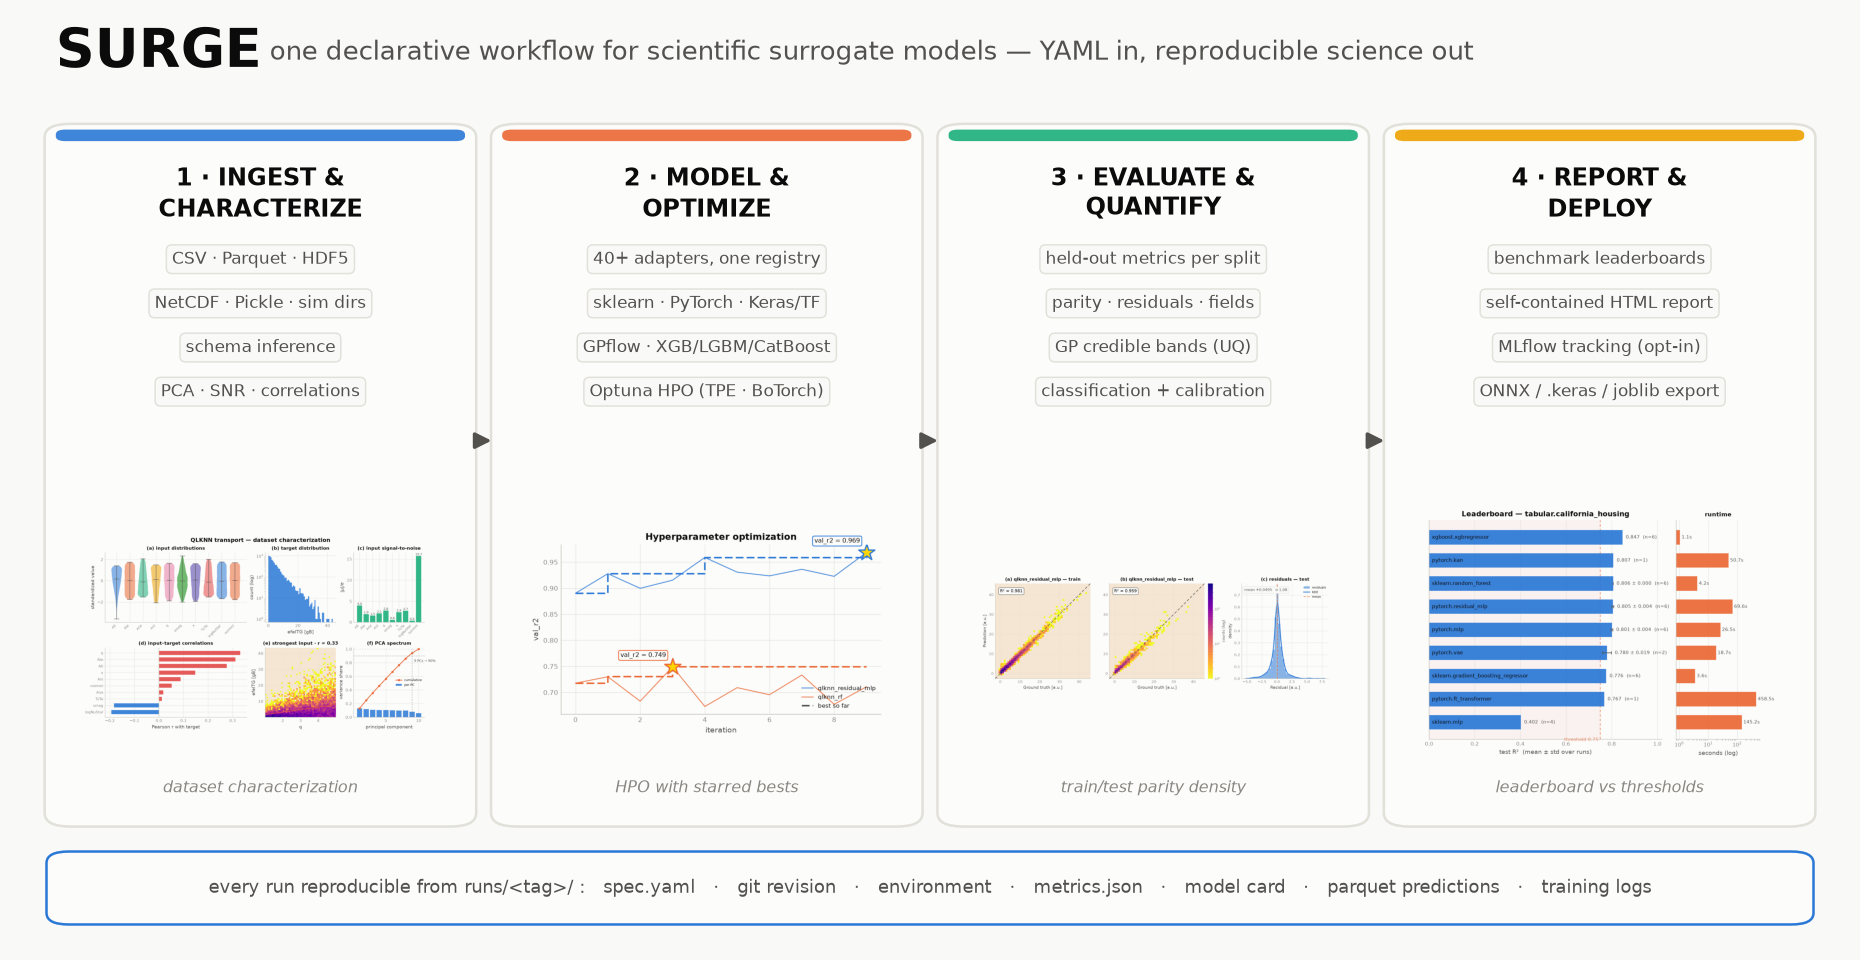
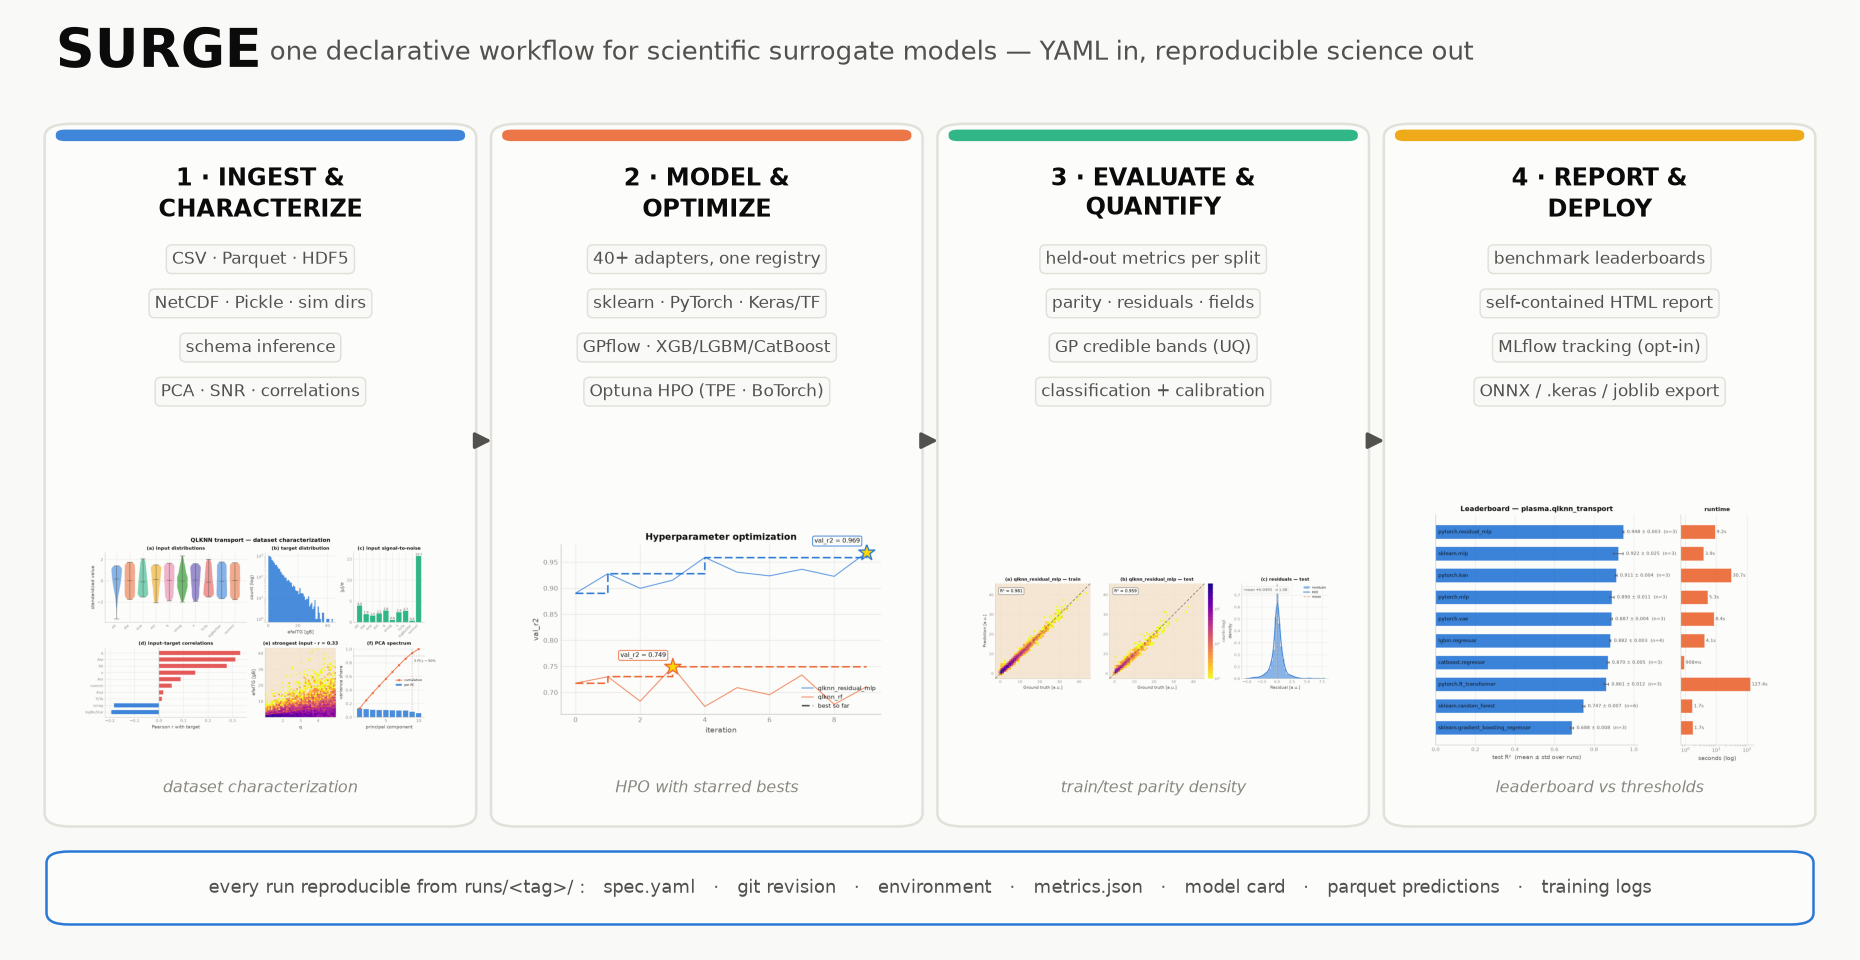
docs(readme): FNO-first results, single-plot 3-across rows, QLKNN leaderboard highlight
- results grid rebuilt around single-plot panels in 3-across rows so
  every image keeps a proper aspect ratio on GitHub: FNO-2D Poisson
  triptych leads (truth/prediction/error as separate panels), then
  parity train/test/residuals, then HPO/UQ/monitoring; ensemble stays
  full-width; the mixed-backend trio becomes three single parities
- gallery gains a singles mode (parity_singles, trio_singles,
  field2d_singles) emitting one plot per file

Changed region(s): [[0.7484, 0.5312, 0.9667, 0.8125]]

diff --git a/examples/viz_theme_gallery.py b/examples/viz_theme_gallery.py
@@ -56,6 +56,16 @@ from surge.viz.theme import (
 )
 
 
+def _benchmark_threshold(key: str):
+    """Published pass threshold from the benchmark registry (or None)."""
+    try:
+        from surge.benchmarks.leaderboard import _THRESHOLDS
+        metric, value = _THRESHOLDS[key]
+        return value if metric.endswith("r2") or "accuracy" in metric else None
+    except Exception:  # noqa: BLE001 - decorative line only
+        return None
+
+
 def _is_loss_like(metric: str) -> bool:
     return any(tag in metric.lower()
                for tag in ("loss", "mse", "rmse", "nrmse", "mae", "error"))
@@ -79,7 +89,8 @@ def _load_split(run_dir: Path, model_key: str, split: str):
     return y_true, y_pred
 
 
-def parity_figure(run_dir: Path, mode: str, units: str = "a.u."):
+def parity_figure(run_dir: Path, mode: str, units: str = "a.u.",
+                  singles: bool = False):
     """Publication parity: 2D histogram density, reversed plasma colormap,
     log-scaled counts — the SURGE signature style (Sánchez-Villar et al.,
     Nucl. Fusion): (a) training / (b) test panels, dashed identity, R² box,
@@ -110,6 +121,64 @@ def parity_figure(run_dir: Path, mode: str, units: str = "a.u."):
     peak = max(
         np.histogram2d(t, q, bins=[bins, bins])[0].max()
         for t, q in splits.values())
+
+    from scipy.stats import gaussian_kde as _kde
+    from sklearn.metrics import r2_score as _r2
+
+    def _draw_parity(fig, ax, p, cmap, split, y_t, y_q, norm,
+                     show_cbar=False, letter=None):
+        ax.set_facecolor(cmap.get_under())
+        im = ax.hist2d(y_t, y_q, bins=[bins, bins], cmap=cmap,
+                       norm=norm, cmin=1)[3]
+        ax.plot(lims, lims, color=p["ink2"], lw=1.2, ls=(0, (5, 3)), zorder=3)
+        ax.set_xlim(lims); ax.set_ylim(lims); ax.set_aspect("equal")
+        ax.grid(color=p["grid"], linewidth=0.5, alpha=0.6)
+        ax.set_axisbelow(True)
+        ax.set_xlabel(f"Ground truth [{units}]")
+        ax.set_ylabel(f"Prediction [{units}]")
+        head = f"({letter}) " if letter else ""
+        ax.set_title(f"{head}{model_key} — {split}", fontsize=9.5)
+        ax.text(0.05, 0.94, f"R² = {_r2(y_t, y_q):.3f}", transform=ax.transAxes,
+                fontsize=9, va="top", color=p["ink"],
+                bbox={"boxstyle": "round,pad=0.35", "facecolor": p["surface"],
+                      "edgecolor": p["ink2"], "linewidth": 0.8})
+        if show_cbar:
+            cb = fig.colorbar(im, ax=ax, fraction=0.046, pad=0.02)
+            cb.set_label("counts (log)", fontsize=8)
+            cb.ax.tick_params(labelsize=7)
+            cb.outline.set_visible(False)
+        return im
+
+    def _draw_resid(ax, p):
+        y_t, y_q = splits["test"]
+        resid = y_q - y_t
+        ax.hist(resid, bins=41, color=p["series"][0], alpha=0.55,
+                density=True, label="residuals")
+        kde_x = np.linspace(resid.min(), resid.max(), 240)
+        ax.plot(kde_x, _kde(resid)(kde_x), color=p["series"][0], lw=1.8,
+                label="KDE")
+        ax.axvline(0.0, color=p["axis"], lw=0.9)
+        ax.axvline(float(resid.mean()), color=p["series"][1], lw=1.2,
+                   ls=(0, (4, 3)), label="mean")
+        ax.set_xlabel(f"Residual [{units}]"); ax.set_ylabel("density")
+        ax.set_title("residuals — test", fontsize=9.5)
+        _stat_chip(ax, f"mean {resid.mean():+.3g}   σ {resid.std():.3g}", p)
+        ax.legend(loc="upper right", fontsize=6.5)
+
+    if singles:
+        out = {}
+        with surge_theme(mode) as p:
+            cmap = density_cmap(mode)
+            norm = LogNorm(vmin=1, vmax=peak)
+            for split, (y_t, y_q) in splits.items():
+                fig, ax = plt.subplots(figsize=(4.3, 3.9))
+                _draw_parity(fig, ax, p, cmap, split, y_t, y_q, norm,
+                             show_cbar=True)
+                out[f"parity_{split}"] = fig
+            fig, ax = plt.subplots(figsize=(4.3, 3.9))
+            _draw_resid(ax, p)
+            out["parity_residuals"] = fig
+        return out
 
     with surge_theme(mode) as p:
         cmap = density_cmap(mode)
@@ -760,7 +829,7 @@ def ensemble_figure(mode: str, seed: int = 0):
 
 # --------------------------------------------------- three-backend success
 
-def trio_figure(mode: str, seed: int = 0):
+def trio_figure(mode: str, seed: int = 0, singles: bool = False):
     """RF + PyTorch MLP + Gaussian process succeeding side by side on the
     QLKNN transport task (2,400-sample subsample so exact GP is exact).
     """
@@ -805,6 +874,31 @@ def trio_figure(mode: str, seed: int = 0):
     if len(results) < 2:
         return None
 
+    def _draw_model(ax, p, cmap, label, pred, r2, dt, lims, letter=None):
+        ax.set_facecolor(cmap.get_under())
+        ax.hist2d(yte, pred, bins=44, range=[lims, lims], cmap=cmap,
+                  norm=LogNorm(vmin=1), cmin=1)
+        ax.plot(lims, lims, color=p["ink2"], lw=1.1, ls=(0, (5, 3)))
+        ax.set_xlim(lims); ax.set_ylim(lims); ax.set_aspect("equal")
+        head = f"({letter}) " if letter else ""
+        ax.set_title(f"{head}{label}", fontsize=9.5)
+        ax.set_xlabel("ground truth [gB]")
+        ax.set_ylabel("prediction [gB]")
+        _stat_chip(ax, f"R² {r2:.3f} · {fmt_metric(dt, 'runtime')}", p)
+        ax.grid(alpha=0.5)
+
+    if singles:
+        out = {}
+        with surge_theme(mode) as p:
+            cmap = density_cmap(mode)
+            lims = (float(yte.min()) - 1, float(yte.max()) + 1)
+            for label, pred, r2, dt in results:
+                fig, ax = plt.subplots(figsize=(4.1, 3.9))
+                _draw_model(ax, p, cmap, label, pred, r2, dt, lims)
+                key = label.lower().replace(" ", "_")
+                out[f"trio_{key}"] = fig
+        return out
+
     with surge_theme(mode) as p:
         cmap = density_cmap(mode)
         fig, axes = plt.subplots(1, len(results), figsize=(3.3 * len(results), 3.3))
@@ -830,7 +924,8 @@ def trio_figure(mode: str, seed: int = 0):
 
 # ------------------------------------------------------ 2D operator (FNO)
 
-def field2d_figure(mode: str, seed: int = 0, n: int = 600, side: int = 32):
+def field2d_figure(mode: str, seed: int = 0, n: int = 600, side: int = 32,
+                   singles: bool = False):
     """2D operator learning: solve the periodic Poisson problem
     ∇²u = −f with an FNO-2D surrogate trained source→solution.
     Dataset generated on the fly (FFT spectral solve = exact reference).
@@ -869,6 +964,31 @@ def field2d_figure(mode: str, seed: int = 0, n: int = 600, side: int = 32):
     rel = (np.linalg.norm((pred - truth).reshape(n_te, -1), axis=1)
            / np.linalg.norm(truth.reshape(n_te, -1), axis=1))
     i = int(np.argsort(rel)[len(rel) // 2])  # median sample
+
+    if singles:
+        out = {}
+        with surge_theme(mode) as p:
+            single_panels = [
+                ("field2d_truth", truth[i], "truth  u(x, y)",
+                 sequential_cmap(mode), None),
+                ("field2d_prediction", pred[i],
+                 f"FNO-2D prediction · rel-L2 {rel[i]:.3f}",
+                 sequential_cmap(mode), None),
+                ("field2d_error", pred[i] - truth[i], "error (pred − truth)",
+                 diverging_cmap(mode),
+                 CenteredNorm(halfrange=float(np.abs(truth[i]).max()) * 0.1)),
+            ]
+            for key, img, title, cmap, nrm in single_panels:
+                fig, ax = plt.subplots(figsize=(4.1, 3.6))
+                im = ax.imshow(img, cmap=cmap, norm=nrm,
+                               interpolation="nearest")
+                ax.set_title(title, fontsize=10)
+                ax.set_xticks([]); ax.set_yticks([]); ax.grid(False)
+                cb = fig.colorbar(im, ax=ax, fraction=0.046, pad=0.02)
+                cb.ax.tick_params(labelsize=7)
+                cb.outline.set_visible(False)
+                out[key] = fig
+        return out
 
     with surge_theme(mode) as p:
         fig, axes = plt.subplots(1, 5, figsize=(11.8, 2.75),
@@ -920,7 +1040,8 @@ def main():
         "training_curves": lambda m: training_figure(Path(args.hpo_run), m),
         "hpo_convergence": lambda m: hpo_figure(Path(args.hpo_run), m),
         "leaderboard": lambda m: leaderboard_figure(
-            Path(args.reports), args.benchmark, m, threshold=0.75),
+            Path(args.reports), args.benchmark, m,
+            threshold=_benchmark_threshold(args.benchmark)),
         "classification": classification_figure,
         "field_operator": field_operator_figure,
         "uncertainty": uncertainty_figure,
@@ -928,6 +1049,9 @@ def main():
         "ensemble": ensemble_figure,
         "trio": trio_figure,
         "field2d": field2d_figure,
+        "parity_singles": lambda m: parity_figure(Path(args.run), m, singles=True),
+        "trio_singles": lambda m: trio_figure(m, singles=True),
+        "field2d_singles": lambda m: field2d_figure(m, singles=True),
     }
     if args.only:
         builders = {k: v for k, v in builders.items() if k in args.only}
@@ -941,9 +1065,11 @@ def main():
             if fig is None:
                 print(f"[skip] {name}_{mode}: no source data")
                 continue
-            for path in save_figure(fig, out / f"{name}_{mode}"):
-                print("wrote", path)
-            plt.close(fig)
+            figs = fig if isinstance(fig, dict) else {name: fig}
+            for fname, f in figs.items():
+                for path in save_figure(f, out / f"{fname}_{mode}"):
+                    print("wrote", path)
+                plt.close(f)
 
 
 if __name__ == "__main__":

diff --git a/README.md b/README.md
@@ -69,13 +69,16 @@ suite — repeated seeds, mean ± std, runtime, and published pass
 thresholds with citations:
 
 <p align="center">
-  <img src="docs/assets/gallery/leaderboard.png" width="760"
-       alt="Benchmark leaderboard: test R² mean ± std per model against the published threshold, with runtime panel"/>
+  <img src="docs/assets/readme/leaderboard.png" width="820"
+       alt="QLKNN plasma-transport leaderboard: 10 models, test R² mean ± std over repeated seeds against the published 0.90 threshold, with runtime panel"/>
 </p>
+<p align="center"><sub><em>QLKNN ITG heat-flux transport: ten models over
+repeated seeds — the HPO-tuned residual MLP leads at R² 0.948 ± 0.003
+against the published 0.90 gate.</em></sub></p>
 
 ```bash
-surge bench -b tabular.california_housing -m all --seeds 5   # leaderboard row
-surge report --out leaderboard.html                          # full dashboard
+surge bench -b plasma.qlknn_transport -m all --seeds 3   # the row above
+surge report --out leaderboard.html                      # full dashboard
 ```
 
 The HTML dashboard adds spider charts per capability domain,
@@ -86,14 +89,36 @@ sortable tables — generated exclusively from
 
 ## Scientific results at a glance
 
-| | |
-|:---:|:---:|
-| <img src="docs/assets/readme/parity.png" width="400" alt="Train/test parity density plots with reversed-plasma colormap and R² boxes"/> | <img src="docs/assets/readme/hpo_convergence.png" width="400" alt="HPO history with running best and starred best trials"/> |
-| *Plasma-transport surrogate (QLKNN ITG heat flux): HPO-tuned residual MLP, R² **0.98 train / 0.96 test**, log-density parity in the style of the ICRF surrogate papers.* | *Optuna HPO across models: per-trial traces, running best, gold star at each optimum.* |
-| <img src="docs/assets/readme/field2d.png" width="400" alt="2D operator learning: FNO-2D solves the periodic Poisson problem, median rel-L2 0.006"/> | <img src="docs/assets/readme/uncertainty.png" width="400" alt="GP surrogate with 68/95% credible bands"/> |
-| *2D operator learning: FNO-2D learns the periodic Poisson solver source→solution at median rel-L2 **0.006** (32×32 fields; U-Net available for the same task shape).* | *Gaussian-process surrogate with 68/95% credible bands — the band widens where training data is absent (96% truth coverage).* |
-| <img src="docs/assets/readme/ensemble.png" width="400" alt="Deep-ensemble uncertainty: mean ± 2 sigma parity, spread vs error, raw vs calibrated coverage"/> | <img src="docs/assets/gallery/training_curves.png" width="400" alt="Training monitoring: train/val loss, generalisation gap, power-law fit, last-10-epoch mean"/> |
-| *Deep-ensemble UQ (`pytorch.mlp_ensemble`): mean ± 2σ predictions, and honest calibration — raw spread is overconfident; σ-rescaling on a held-out split recovers near-Gaussian coverage.* | *Training monitoring from per-epoch JSONL logs: generalisation gap shaded, best epoch marked, power-law convergence fit — and training stops itself via **smoothed early stopping** (patience on the rolling-mean validation loss), here at epoch 147 of 300 allowed.* |
+**2D operator learning** — FNO-2D learns the periodic Poisson solver
+source→solution at median rel-L2 **0.006** (32×32 fields; U-Net covers the
+same task shape):
+
+| | | |
+|:---:|:---:|:---:|
+| <img src="docs/assets/readme/field2d_truth.png" alt="Truth solution field u(x,y)"/> | <img src="docs/assets/readme/field2d_prediction.png" alt="FNO-2D predicted field"/> | <img src="docs/assets/readme/field2d_error.png" alt="Signed prediction error on a diverging colormap"/> |
+
+**Plasma-transport regression** (QLKNN ITG heat flux) — HPO-tuned residual
+MLP, log-density parity in the style of the ICRF surrogate papers:
+
+| | | |
+|:---:|:---:|:---:|
+| <img src="docs/assets/readme/parity_train.png" alt="Training parity density, R² 0.98"/> | <img src="docs/assets/readme/parity_test.png" alt="Test parity density, R² 0.96"/> | <img src="docs/assets/readme/parity_residuals.png" alt="Test residual distribution with KDE"/> |
+
+**Optimization, uncertainty, and monitoring**:
+
+| | | |
+|:---:|:---:|:---:|
+| <img src="docs/assets/readme/hpo_convergence.png" alt="HPO history with running best and starred optima"/> | <img src="docs/assets/readme/uncertainty.png" alt="GP surrogate with 68/95% credible bands, 96% truth coverage"/> | <img src="docs/assets/gallery/training_curves.png" alt="Training curves with generalisation gap, power-law fit, and smoothed early stopping"/> |
+| *Optuna HPO: per-trial traces, running best, gold-starred optima.* | *GP credible bands widen where data is absent (96% truth coverage).* | *Per-epoch monitoring with **smoothed early stopping** — training halts itself at true saturation (epoch 147/300).* |
+
+**Deep-ensemble uncertainty** (`pytorch.mlp_ensemble`) — mean ± 2σ
+predictions and honest calibration: raw spread is overconfident; σ-rescaling
+on a held-out split recovers near-Gaussian coverage:
+
+<p align="center">
+  <img src="docs/assets/readme/ensemble.png" width="820"
+       alt="Deep-ensemble UQ: mean ± 2 sigma parity, spread vs error, raw vs calibrated coverage"/>
+</p>
 
 Regenerate everything above from your own runs — full gallery per
 problem type in [`docs/gallery.md`](docs/gallery.md):
@@ -196,10 +221,9 @@ via `examples/custom_cnn_adapter_template.py`. Live example on the
 QLKNN transport task — three backends through one registry, and the
 small-data regime is exactly where the Gaussian process earns its keep:
 
-<p align="center">
-  <img src="docs/assets/readme/trio.png" width="760"
-       alt="Random forest, PyTorch MLP, and Gaussian process trained on identical QLKNN splits: R² 0.66 / 0.86 / 0.94"/>
-</p>
+| | | |
+|:---:|:---:|:---:|
+| <img src="docs/assets/readme/trio_random_forest.png" alt="Random forest parity, R² 0.66"/> | <img src="docs/assets/readme/trio_pytorch_mlp.png" alt="PyTorch MLP parity, R² 0.86"/> | <img src="docs/assets/readme/trio_gaussian_process.png" alt="Gaussian process parity, R² 0.94"/> |
 
 ### 5 · Your own CSV / Parquet / PKL / HDF5 / NetCDF file
 
